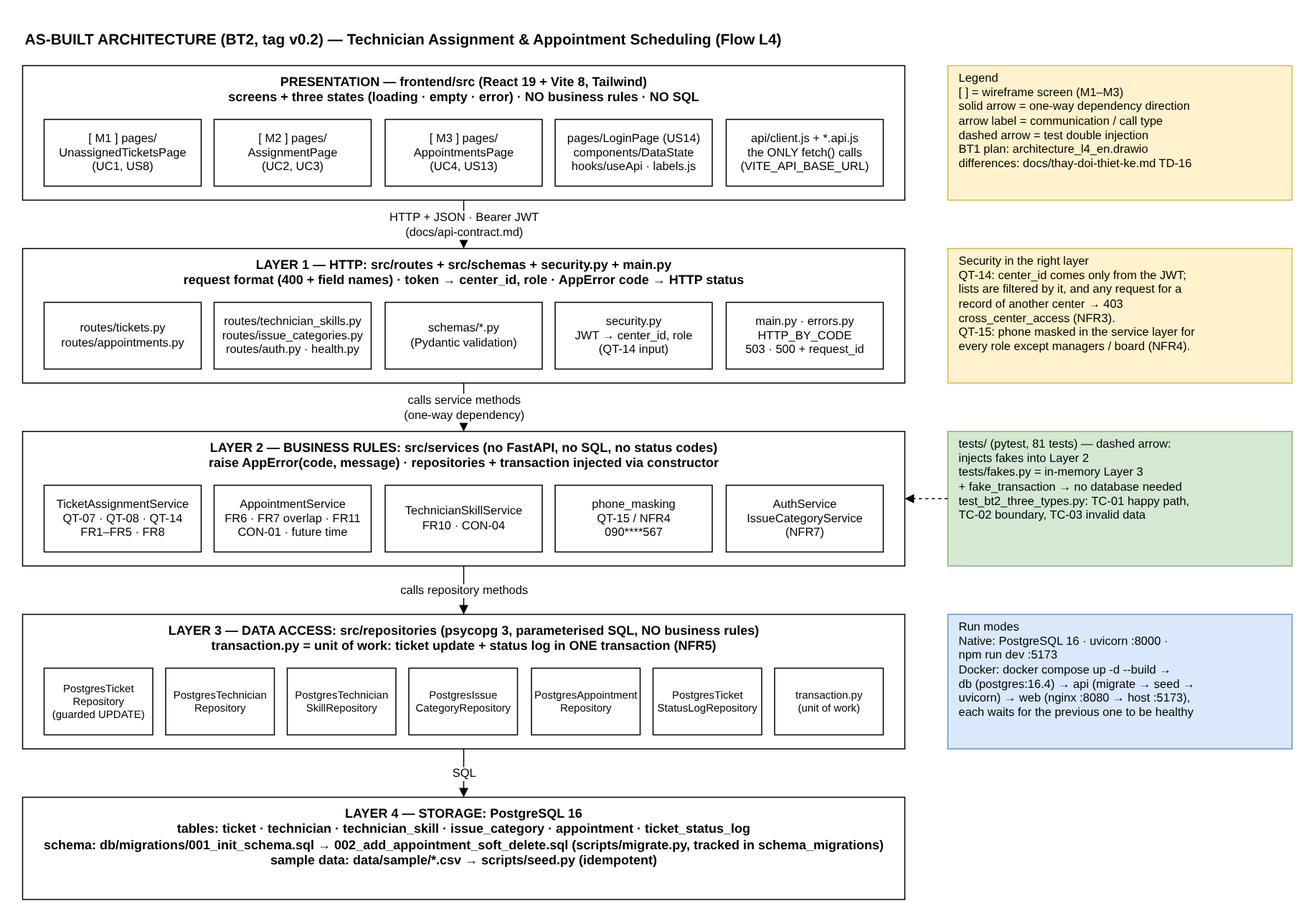
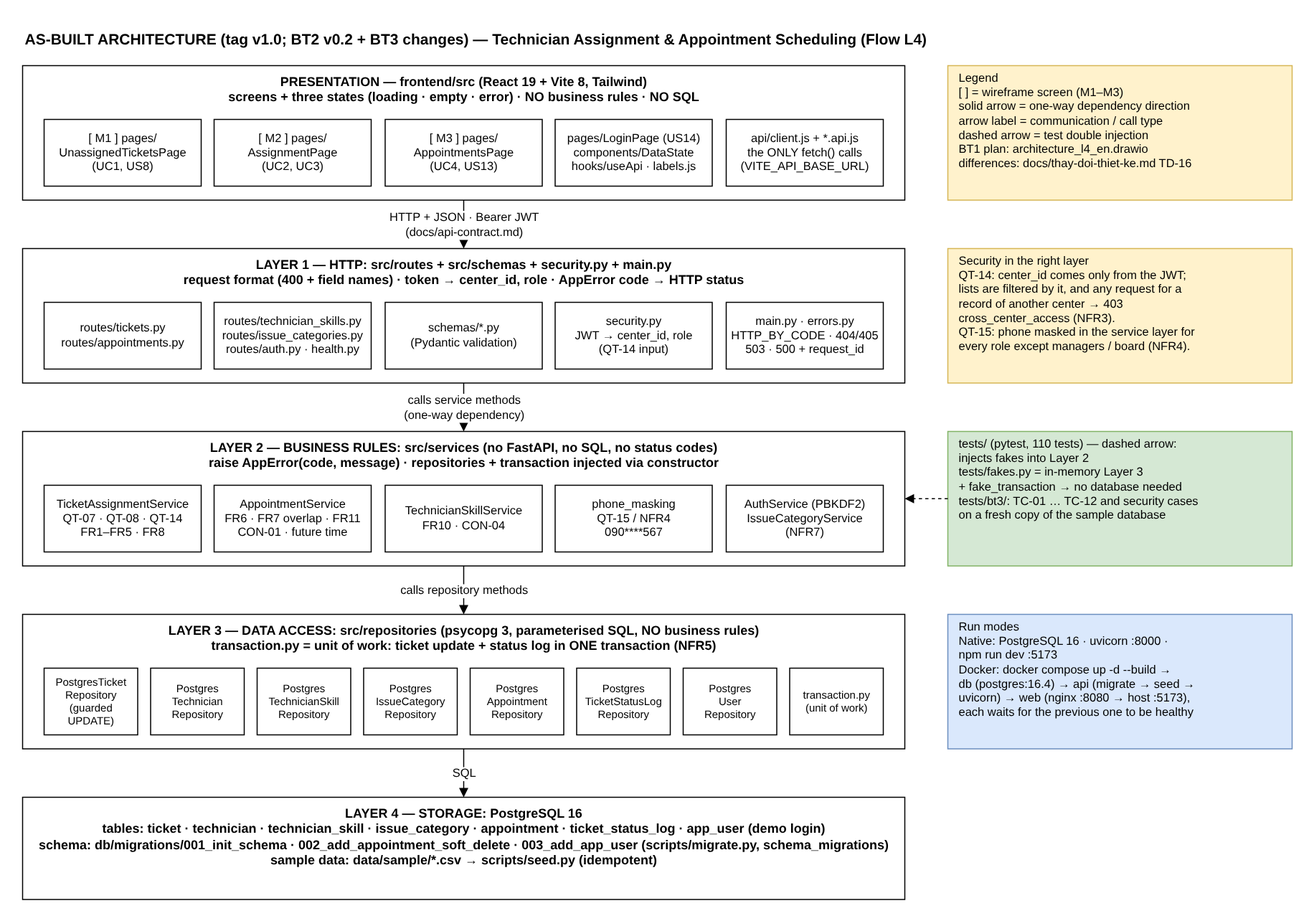
docs(bt3): BT2 feedback and TD-36 … TD-42; as-built architecture, SRS v0.8, README, Test Plan for v1.0
TD-36 records the BT2 feedback (nothing to fix, keep the standard). The as-built
architecture and its diagram show app_user, PostgresUserRepository and migration 003;
the SRS no longer says password storage is out of scope. README, Test Plan and the API
contract point to the BT3 documents and the new test counts (110); the AI disclosure
covers Session 15–16.

diff --git a/README.md b/README.md
@@ -1,6 +1,6 @@
 # Smart CRM – Mekong Mobile · Flow L4: Technician Assignment & Appointment Scheduling
 
-Repository `cdtn1-rasphonesamphanthamith-l4` · Track **SE** · Specialized Graduation Topic I (CĐTN1) · BT2 tag **`v0.2`**
+Repository `cdtn1-rasphonesamphanthamith-l4` · Track **SE** · Specialized Graduation Topic I (CĐTN1) · BT2 tag `v0.2` · BT3 tag **`v1.0`**
 
 ## 1. What it does
 
@@ -35,7 +35,7 @@ Run from the repository root, one command per step. Windows PowerShell: use `cop
 
 | # | Step | Command |
 |---|---|---|
-| 1 | Get the code | `git clone --branch v0.2 https://github.com/RASPHONE/cdtn1-rasphonesamphanthamith-l4.git` |
+| 1 | Get the code | `git clone --branch v1.0 https://github.com/RASPHONE/cdtn1-rasphonesamphanthamith-l4.git` |
 | 2 | Enter the folder | `cd cdtn1-rasphonesamphanthamith-l4` |
 | 3 | Create `.env` | `cp .env.example .env` — then set `DB_USER` / `DB_PASSWORD` to your local PostgreSQL account |
 | 4 | Create the empty database | `psql -h localhost -U postgres -c "CREATE DATABASE mekong_l4"` — use the `DB_USER` and `DB_NAME` from your `.env` (the account needs the right to create databases; `postgres` has it) |
@@ -68,6 +68,8 @@ Frontend, in a **second terminal** (the API must be running):
 | `manager2` | `manager123` | 2 |
 
 Demo-only accounts for QT-14 scoping (TD-07); they are not production authentication.
+`scripts/seed.py` stores them in table `app_user` with PBKDF2 password hashes; the password is
+`DEMO_PASSWORD` from `.env` (default `manager123`) at the time the accounts are created (TD-37).
 The session token is kept in the browser's `localStorage` — readable by an injected
 script if the page had an XSS bug; accepted for the prototype (an HttpOnly cookie is the production choice).
 
@@ -80,8 +82,10 @@ docker compose up -d --build
 
 `docker compose ps` should show `db`, `api` and `web` as **healthy**. The API container
 builds the schema and loads the sample data automatically.
-UI: http://localhost:5173 · API: http://localhost:8000/health · PostgreSQL on host port 5433.
+UI: http://localhost:5173 · API: http://localhost:8000/health · PostgreSQL on 127.0.0.1:5433.
+Whole test suite inside the running system: `docker compose exec api pytest -q` → `110 passed`.
 Start over from an empty database: `docker compose down -v` then the second command again.
+Requirements, variables, sample data, checks and troubleshooting: **`docs/deployment-guide.md`**.
 
 ## 5. Tests
 
@@ -89,24 +93,27 @@ Start over from an empty database: `docker compose down -v` then the second comm
 pytest -q
 ```
 
-Expected: `98 passed`. 90 of them use in-memory fakes (`tests/fakes.py`) and need **no database and
-no `.env`**. The 8 BT3 database cases (`tests/bt3/`) need a reachable PostgreSQL 16 with the DB_*
-values from `.env`; they create and drop their own `<DB_NAME>_test` databases and never touch the
-application data. Without PostgreSQL they are reported as skipped (`90 passed, 8 skipped`).
-With the Docker database (section 4) run `DB_PORT=5433 pytest -q`.
+Expected: `110 passed`. 98 of them use in-memory fakes (`tests/fakes.py`) and need **no database and
+no `.env`**. The 12 database tests in `tests/bt3/` (8 Test Report cases, password storage, injection)
+need a reachable PostgreSQL 16 with the DB_* values from `.env`; they create and drop their own
+`<DB_NAME>_test` databases and never touch the application data. Without PostgreSQL they are
+reported as skipped (`98 passed, 12 skipped`). With the Docker database (section 4) run
+`DB_PORT=5433 pytest -q`, or run everything in the container: `docker compose exec api pytest -q`.
 
 - One Test Report case with its actual-result line: `pytest -s -v tests/bt3 -k tc05`
   (plan: `docs/test-plan.md`, results: `docs/test-report.md`).
 - The three BT2 test types in one file: `pytest -v tests/test_bt2_three_types.py`.
 - Frontend checks: `npm run lint` and `npm run build` in `frontend/`.
 - CI (`.github/workflows/ci.yml`) runs all of the above on every push, with a PostgreSQL service.
+- Security checklist, re-run against the Docker system: `bash scripts/security-checks.sh`
+  (results: `docs/checklist-bao-mat.md`).
 
 ## 6. Check that it works
 
 | Check | Command / action | Expected |
 |---|---|---|
 | API and database up | `curl http://localhost:8000/health` | `{"status":"ok","database":"up"}` |
-| Re-run is safe (no duplicates) | `python scripts/migrate.py` then `python scripts/seed.py` again | `0 applied, 2 already up to date` · every table `+0` |
+| Re-run is safe (no duplicates) | `python scripts/migrate.py` then `python scripts/seed.py` again | `0 applied, 3 already up to date` · every table `+0` |
 | Main flow | Log in as `manager2` → M1 → **Phân công** → choose a technician → **Xác nhận phân công** → **Đặt lịch hẹn → M3** → pick a future date/time → **Lưu & xác nhận** | Ticket leaves M1; appointment appears in M3 as "Đã xác nhận" |
 | Double booking blocked | In M3, enter an overlapping time for the same technician | Yellow "Trùng lịch" banner, save disabled; the API returns 409 with the conflicting appointment |
 | Filter with no result | M1: Nhóm sự cố "Nước vào" + Ưu tiên "Thấp" → **Áp dụng bộ lọc** | "Không có phiếu nào khớp bộ lọc hiện tại." + **Xoá bộ lọc** |
@@ -114,7 +121,7 @@ With the Docker database (section 4) run `DB_PORT=5433 pytest -q`.
 | Backend stopped | Stop uvicorn, reload the UI | Error panel "Không kết nối được tới máy chủ…" with **Thử lại** |
 | Database stopped | Stop PostgreSQL, reload a screen | `503 database_unavailable`, UI shows "Cơ sở dữ liệu tạm thời không khả dụng…" |
 
-API reference and error codes: `docs/api-contract.md`.
+API reference with real examples: `docs/api-docs/README.md` (also `/docs` on the running API); design contract: `docs/api-contract.md`.
 
 ## 7. Sample data (reproducible)
 
@@ -138,14 +145,16 @@ src/                     backend, three layers
   services/                layer 2: business rules (QT-07, QT-08, QT-14, QT-15, FR7) — no HTTP, no SQL
   repositories/            layer 3: SQL (psycopg 3) + transaction.py (unit of work)
   main.py · errors.py · security.py · config.py · db.py
-db/migrations/           001_init_schema.sql, 002_add_appointment_soft_delete.sql
+db/migrations/           001_init_schema.sql, 002_add_appointment_soft_delete.sql, 003_add_app_user.sql
 scripts/                 migrate.py · seed.py · build_sample.py · docker-entrypoint.sh
+                         build_api_docs.py (docs/api-docs) · security-checks.sh + security_probe.py
 data/sample/             committed sample CSVs
 tools/                   course dataset generators (gen_dataset.py, gen_sample.py)
-tests/                   pytest: fakes.py + service and API tests · bt3/ = Test Report cases TC-01 … TC-12
+tests/                   pytest: fakes.py + service and API tests · bt3/ = Test Report cases TC-01 … TC-12 + database security tests
 frontend/src/            api/ (only fetch calls) · pages/ (M1, M2, M3, Login) · components/ · hooks/ · labels.js
 docs/                    srs.md · api-contract.md · architecture-thuc-te.md (as built) · thay-doi-thiet-ke.md
                          ai-disclosure.md · bug-log.md · test-plan.md · test-report.md · screenshots/
+                         api-docs/ (API reference + openapi.json) · deployment-guide.md · checklist-bao-mat.md
                          BT1 diagrams (.drawio) and exports/
 Dockerfile · frontend/Dockerfile · docker-compose.yml · .github/workflows/ci.yml
 ```
@@ -160,8 +169,8 @@ on purpose (BT1 feedback). The UI text is Vietnamese.
 
 - [x] BT1 — analysis & design (PDF submitted; design files in `docs/`)
 - [x] BT2 — core module, tests, M1–M3 screens, Docker (tag `v0.2`)
-- [ ] BT3 — test plan/report and packaging (tag `v1.0`) — in progress: Test Plan, Test Report
-  cases TC-01 … TC-12, BUG-011 … BUG-013 fixed, CI (Session 14); packaging and guides next (Session 15)
+- [x] BT3 — Test Plan, Test Report (TC-01 … TC-12), Bug Log (BUG-011 … BUG-016), Deployment Guide,
+  security checklist, API reference, Docker clean-machine package (tag `v1.0`)
 
-Design changes since BT1 (what · why · impact): `docs/thay-doi-thiet-ke.md` (TD-01 … TD-35) ·
+Design changes since BT1 (what · why · impact): `docs/thay-doi-thiet-ke.md` (TD-01 … TD-42) ·
 bugs found and fixed: `docs/bug-log.md` · AI usage: `docs/ai-disclosure.md`.

diff --git a/docs/thay-doi-thiet-ke.md b/docs/thay-doi-thiet-ke.md
@@ -179,9 +179,8 @@ three-line format: **Change** (what) · **Reason** (why) · **Impact** (which co
 
 ## BT3 — testing (Session 13–14)
 
-*BT2 feedback: not received yet (05/11/2026). When it arrives, each point gets an entry in
-the Session 8 template (Feedback · Decision · Reason · Impact), and any failure the lecturer
-hit while running the repository is also logged as a bug in `docs/bug-log.md`.*
+*BT2 feedback had not been received when this section was written (05/11/2026); it is
+recorded in TD-36 below.*
 
 ### TD-31 SRS §3.1 "Source" column given one meaning
 - **Change:** The Source column now always names where a requirement comes from. FR6–FR9 (previously "—") cite the case study: FR6 and FR7 the L4 flow scope ("đặt lịch hẹn giao – nhận máy", "kiểm tra trùng lịch"), FR8 problem V3, the L4 scope and the Center Manager interview #1–#2, FR9 is marked *derived* from QT-08, QT-04 and interview #3. FR10–FR12 (added in BT2) cited "BT2 S1" / "BT2 Component 3"; those are course constraints, not business sources, so they are listed in SRS §5 as CC-01 / CC-02 and the FRs cite those IDs. FR6 ("create or update an appointment") is kept as one requirement: both operations act on the same record with the same validation and conflict rule (US5, US6 AC3), unlike two separate capabilities in one sentence.
@@ -207,3 +206,41 @@ hit while running the repository is also logged as a bug in `docs/bug-log.md`.*
 - **Change:** Added `tests/bt3/` (Test Report cases TC-01 … TC-12). The database cases build `<DB_NAME>_test_tpl` once with the real migrate/seed scripts and recreate `<DB_NAME>_test` from it before every case; they are skipped (or fail with `REQUIRE_DB=1`) when PostgreSQL is unreachable. `.github/workflows/ci.yml` runs `pytest -q` with a PostgreSQL 16 service and the frontend lint/build on every push.
 - **Reason:** BT3 TP2 asks for cases run against the real system with side effects measured, and each case must start from known data; BT2 promised tests without a database, which still holds for the 90 tests that need no database.
 - **Impact:** `tests/bt3/`, `.github/workflows/ci.yml`, README §5, `docs/test-plan.md`, `docs/test-report.md`. The application database is never touched by the tests.
+
+## BT3 — packaging, security and documentation (Session 15–16)
+
+### TD-36 BT2 feedback (recorded 12/11/2026)
+- **Feedback:** *"Điểm mạnh: FastAPI + PostgreSQL + React: phân công KTV và lịch hẹn với nhiều quy tắc có kiểm thử, 81 kiểm thử PASS, ba màn hình M1–M3 đủ ba trạng thái, khoá phiên bản đầy đủ, .env.example cho cả backend và frontend, Docker hai lệnh, 30 mục thay đổi thiết kế và 10 bug log. Cần khắc phục: Không có lỗi đáng kể. Giữ phong độ cho BT3. Mục kiểm chứng (bảng 4.2): đạt đủ các mục chung và mục theo track."* — strengths: rule-heavy assignment and scheduling with tests, 81 tests passing, M1–M3 with the three states, full version pinning, `.env.example` for backend and frontend, two-command Docker, 30 design-change entries and 10 bugs logged; nothing significant to fix; every common and track item of table 4.2 met.
+- **Decision:** KEEP — no correction requested. The practices the feedback names are continued in BT3: every change is logged here (TD-31 … TD-42) and every bug in `docs/bug-log.md` (BUG-011 … BUG-016), versions stay pinned (TD-38), and the two-command Docker start is kept and is now also the way the full test suite runs (TD-41).
+- **Reason:** "Giữ phong độ" asks for the same standard on the new BT3 components; the lecturer hit no failure while running the repository, so no bug comes from the feedback itself.
+- **Impact:** none on code; this entry replaces the "not received yet" note of the BT3 section. The test count named in the feedback (81) is the BT2 state; BT3 brings it to 110 (README §5).
+
+### TD-37 Demo accounts stored in `app_user` with hashed passwords (BUG-014)
+- **Change:** New table `app_user` (migration `003_add_app_user.sql`, also in `docs/ddl_l4.sql`) with a `CHECK` that accepts only `pbkdf2_sha256$…` values; `seed.py` creates `manager1` / `manager2` from `DEMO_PASSWORD` (default `manager123`) hashed with PBKDF2-SHA256, 600,000 iterations; `AuthService` reads accounts through the new `PostgresUserRepository` instead of the `DEMO_USERS` constant.
+- **Reason:** BUG-014 / BT3 S3: passwords in the database must be hashes; the BT2 demo kept them in clear in the code (TD-07 had said "not production authentication").
+- **Impact:** `db/migrations/`, `docs/ddl_l4.sql`, `scripts/seed.py`, `src/repositories/user_repository.py`, `src/services/password_hashing.py`, `auth_service.py`, `routes/auth.py`, `.env.example`, `docker-compose.yml`, tests (`FakeUserRepository`, 6 new tests), `docs/architecture-thuc-te.md` §5 and diagram, SRS v0.8 (§1.3 item 5, matrix FR12). Login behaviour and the documented demo credentials are unchanged; the BT1 ERD is unchanged (authentication table outside the L4 business model).
+
+### TD-38 Dependencies upgraded after `pip-audit` and `npm audit`
+- **Change:** `fastapi` 0.115.5 → 0.162.0 with `starlette` pinned at 1.10.0, `PyJWT` 2.9.0 → 2.15.1, `pytest` 8.3.4 → 9.1.1; frontend: npm override pins `minimatch` 11.0.8 under ESLint 10.
+- **Reason:** security checklist item 7: `pip-audit` reported 25 advisories, `npm audit` 4 moderate (development only). After the change both report 0.
+- **Impact:** `requirements.txt`, `pytest.ini` (one deprecation warning from `starlette.testclient` filtered), `frontend/package.json` and lock file; Starlette 1.x lists routers differently, so endpoint enumeration uses `app.openapi()`. All tests pass on Python 3.11–3.14; lint and build unchanged.
+
+### TD-39 Every error response follows the contract envelope (BUG-015, BUG-016)
+- **Change:** Framework 404/405 answer `{"error": "not_found" | "method_not_allowed", "message"}`; unexpected errors are turned into the 500 envelope inside the request-log middleware, so they carry `X-Request-ID` and a request log line; the served OpenAPI (`/openapi.json`, `/docs`) documents 400 with the error envelope instead of FastAPI's default 422.
+- **Reason:** security checklist item 5 / BT3 S4 and API contract §1; S1 (the machine-readable docs must match the real responses).
+- **Impact:** `src/main.py`, API contract §1, 3 new tests.
+
+### TD-40 Tokens must carry every claim the API reads
+- **Change:** `jwt.decode` requires `exp`, `sub`, `user_id`, `role` and `center_id`; a token without an expiry or without the center is refused (401).
+- **Reason:** Session 15 JWT checklist ("always verify the expiry"); a token without `exp` would never expire and one without `center_id` would bypass QT-14 scoping by failing later with a 500.
+- **Impact:** `src/security.py`, `tests/test_config.py`, test tokens in `tests/test_api.py`.
+
+### TD-41 Docker package for the clean-machine test
+- **Change:** The api image contains `tests/`, `pytest.ini` and `.env.example`, so `docker compose exec api pytest -q` runs the whole suite where the system runs; `/app` belongs to the unprivileged `app` user; PostgreSQL is published on `127.0.0.1` only; `DEMO_PASSWORD` is passed to the api service; `seed.py` binds `APP_TIMEZONE` as a parameter.
+- **Reason:** BT3 C1/C3 (tests pass with one command from the Deployment Guide on a clean machine) and checklist items 1–2 (database not exposed on the network, no configurable value formatted into SQL).
+- **Impact:** `Dockerfile`, `.dockerignore`, `docker-compose.yml`, `scripts/seed.py`, `docs/deployment-guide.md`, README §4–§5.
+
+### TD-42 BT3 documentation set
+- **Change:** `docs/api-docs/` (README with the 7 items for each of the 19 endpoints and real examples, plus `openapi.json`) generated by `scripts/build_api_docs.py`, which stops if the documented endpoints, statuses or examples differ from the code; `docs/deployment-guide.md` (English, 5 required sections + troubleshooting, HTTPS and monitoring); `docs/checklist-bao-mat.md` with `scripts/security-checks.sh`, which re-runs the 7 checks against the Docker system.
+- **Reason:** BT3 TP5, TP6 (S1) and C9 — the documents must describe the system as it is, so they are generated from or checked against the running code.
+- **Impact:** `docs/`, `scripts/`; `docs/api-contract.md` stays the design contract (BT1/BT2) and points to `docs/api-docs/` for the reference.

diff --git a/docs/srs.md b/docs/srs.md
@@ -2,8 +2,8 @@
 
 - **Flow:** L4 — Technician Assignment and Appointment Scheduling
 - **Track:** SE
-- **Version:** v0.7
-- **BT2 target tag:** v0.2
+- **Version:** v0.8
+- **Tags:** BT2 `v0.2` · BT3 `v1.0`
 - **Language:** English
 - **Source case study:** Smart CRM – Mekong Mobile
 
@@ -32,7 +32,7 @@ The following capabilities are explicitly excluded from v0.2:
 2. **Notification infrastructure.** No SMS, email, or push notification is sent by the system in v0.2.
 3. **Technician self-service UI.** The Technician actor is specified but deferred to v1.1.
 4. **Reporting and analytics.** Dashboards belong to flows L6/L10, not L4.
-5. **Production authentication.** User accounts, password storage and an identity provider are out of scope. A minimal demo login (US14/FR12) exists only so the server can identify the caller's center and role.
+5. **Production authentication.** Account management, password change or reset, and an identity provider are out of scope. A minimal demo login (US14/FR12) exists only so the server can identify the caller's center and role; its two demo accounts are stored in table `app_user` with hashed passwords (BT3 S3, TD-37).
 6. **On-site check appointment workflow.** The appointment type `KIEM_TRA_TAI_CHO` is retained in the database enum for historical/generated data compatibility, but v0.2 only allows creating `GIAO_MAY` and `NHAN_MAY` appointments.
 7. **Structured appointment location and appointment note.** No `location` or `note` field is stored for appointments in v0.2. Handover/receipt appointments are associated with the ticket's service center. On-site address handling and appointment notes are deferred.
 
@@ -307,9 +307,9 @@ Screen identifiers: **M1** = Unassigned warranty ticket list · **M2** = Ticket 
 | FR9 | Filter unassigned tickets | US8 | UC1 | SHOULD | ticket, issue_category | M1 | BT3 |
 | FR10 | Maintain technician skill records | US12 | UC2 | SHOULD | technician_skill, technician, issue_category | — (API only, TD-06; proficiency shown on M2) | BT3 |
 | FR11 | Read and soft-delete appointments | US13 | UC4 | SHOULD | appointment | M3 | BT3 |
-| FR12 | Minimal demo authentication for center scoping | US14 | UC1-UC4 (precondition) | MUST | (infrastructure) | Login screen | BT3 |
+| FR12 | Minimal demo authentication for center scoping | US14 | UC1-UC4 (precondition) | MUST | app_user (demo accounts) | Login screen | BT3 |
 
-**Row read:** every FR (none is WON'T) has a User Story, Use Case and data table; every FR has a screen except FR10, which is API-only by design (TD-06). FR12's data is infrastructure (token), not a table.
+**Row read:** every FR (none is WON'T) has a User Story, Use Case and data table; every FR has a screen except FR10, which is API-only by design (TD-06). FR12's data is the demo-account table `app_user` (added in BT3, TD-37).
 
 **Column read (data table):** `ticket` (FR1, FR3, FR5, FR6, FR8, FR9), `technician` (FR2, FR8, FR10), `technician_skill` (FR2, FR4, FR10), `issue_category` (FR2, FR9, FR10), `appointment` (FR6, FR7, FR11), `ticket_status_log` (FR5). All six ERD tables appear at least once — no isolated table.
 
@@ -329,3 +329,4 @@ Screen identifiers: **M1** = Unassigned warranty ticket list · **M2** = Ticket 
 | v0.5 | BT2 implementation (Session 11) | Added US14/FR12 acceptance criteria for minimal demo authentication; clarified `technician_skill` CRUD as a BT2 API-only scope adjustment supporting the ≥2 full-CRUD requirement; aligned appointment behavior with the API contract: creation/confirmation uses `DA_XAC_NHAN`, PATCH is limited to `DA_XAC_NHAN`, completed appointments cannot be soft-deleted (`appointment_completed_cannot_delete`), and reassignment reason must be 5–255 characters; recorded implementation alignment for NFR5 atomic assignment transactions, qualified-technician response shape `{ "ticket_id", "items": [...] }`, and assignment response `log_id`. | BT2 implementation alignment TD-09 to TD-14 |
 | v0.6 | BT2 finalisation (Session 12) | §1.5 rewritten for the actual committed sample; design notes 8–10 (customer snapshot fixture, concurrent assignment guard, business clock); NFR4/QT-15 masking now implemented in the service layer; supporting read endpoints `GET /api/tickets/{ticket_id}` (US2/US4 summary) and `GET /api/issue-categories` (US8 filter) added to the API contract. Consistency pass: US1 AC3 and NFR3 wording (lists are scoped, direct access returns 403), QT-04 working-day clause restored, matrix FR10 screen and column reads, §1.3 item 5, note on message language. | TD-15 to TD-30 |
 | v0.7 | BT3 (Session 13–14) | §3.1 Source column given one meaning (origin of the requirement) and filled for FR6–FR9 from the case study; FR10–FR12 now cite course constraints CC-01/CC-02, added to §5. | TD-31 |
+| v0.8 | BT3 (Session 15–16) | §1.3 item 5: the demo accounts are stored in `app_user` with hashed passwords; matrix FR12 data table `app_user`. | TD-37 (BUG-014) |

diff --git a/docs/ai-disclosure.md b/docs/ai-disclosure.md
@@ -4,12 +4,13 @@ Policy reminder (course AI-use and academic-integrity rules): AI may be used to 
 suggest functions, find causes of errors and review code; every line submitted must be read
 and understood by the student, who can explain any function on request (Session 12).
 
-## BT3 — Testing (Session 13–14; tag `v1.0` later)
+## BT3 — Testing, packaging and documentation (Session 13–16; tag `v1.0`)
 
 | Tool | Used for | Applied in which file / function | How it was verified |
 | :--- | :--- | :--- | :--- |
 | Claude (Anthropic) | Checking the SRS §3.1 Source column against the case study and course material (TD-31); exploratory testing of the API (tokens, malformed input, cross-center access, boundary values) that found BUG-011 … BUG-013; writing the Test Plan, the Test Report cases and their test-database fixture; the three bug fixes (one commit each); the CI workflow; drafts of the Test Report table, Bug Log entries, TD-31 … TD-35, README §5 and this table. A second, separate Claude session reviewed the proposed SRS sources (FR10–FR12 as course constraints, extra sources for FR8 and FR9, the one-requirement check for FR6) | `docs/srs.md` §3.1, §5; `docs/test-plan.md`, `docs/test-report.md`, `docs/bug-log.md` (BUG-011 … 013); `tests/bt3/conftest.py`, `tests/bt3/test_bt3_cases.py`, `tests/test_config.py`; `src/config.py` (`_jwt_secret_must_be_private`), `ticket_assignment_service.reassign_technician`, `src/main.py` (`validation_error_handler`), `src/errors.py`; `.env.example`, `docker-compose.yml`; `.github/workflows/ci.yml` | Each bug reproduced on the commit before its fix (`cf58fa7`: TC-08, TC-09, TC-11 fail) and re-run after it; `pytest -q` 98 passed with PostgreSQL 16, 90 passed / 8 skipped without; the BUG-011 fix also checked by starting the API from a plain copy of `.env.example` (forged tokens 401, real login 200, published value refused at start-up). The Test Report's actual results and screenshots come from the student's own runs (run 1 on `cf58fa7`, run 2 on `8990458`, 05/11/2026). The SRS review suggestions were each checked against `03_requirements/23_srs_and_traceability.md` §5 and the case study before being applied. |
-| — none — | Accepting the test scope and each bug's severity, running every Test Report case and recording its result, Git workflow (push, merge, tag) | `docs/test-report.md` actual-result columns; `docs/screenshots/` | Not applicable |
+| Claude (Anthropic) | Session 15–16: running the security checklist against the API (found BUG-014 … BUG-016) and the fixes; `pip-audit` / `npm audit` and the dependency upgrades; token-claim check; Docker changes for the clean-machine test; the API-reference generator with its consistency checks; the security-check scripts; drafts of the Deployment Guide, the security checklist, BUG-014 … 016, TD-36 … TD-42, the as-built architecture update, README and this row | `src/services/password_hashing.py`, `auth_service.py`, `src/repositories/user_repository.py`, `db/migrations/003_add_app_user.sql`, `scripts/seed.py`; `src/main.py` (`framework_http_error_handler`, `request_log`, `_describe_errors_in_openapi`), `src/security.py`; `requirements.txt`, `frontend/package.json`; `Dockerfile`, `docker-compose.yml`; `scripts/build_api_docs.py`, `scripts/security-checks.sh`, `scripts/security_probe.py`; `tests/test_password_storage.py`, `tests/bt3/test_password_storage_db.py`, `tests/bt3/test_injection_db.py`, new tests in `tests/test_api.py`, `tests/test_config.py`; `docs/api-docs/`, `docs/deployment-guide.md`, `docs/checklist-bao-mat.md`, `docs/bug-log.md`, `docs/thay-doi-thiet-ke.md`, `docs/architecture-thuc-te.*`, `docs/srs.md` v0.8 | Each new test was run on the commit before its fix and failed, then passed after it; `pytest -q` 110 passed with PostgreSQL 16 on Python 3.11–3.14, 98 passed / 12 skipped without; `pip-audit` and `npm audit` 0 after the upgrades, frontend lint still reports errors and build passes; the API reference is generated from real calls and refuses to write when it differs from the code; `openapi.json` validated with `openapi-spec-validator`. The Docker clean-machine test, the security checks in Docker and their screenshots are the student's own runs (`docs/screenshots/`). |
+| — none — | Accepting the test scope and each bug's severity, running every Test Report case and recording its result, running the clean-machine test and the security checks, Git workflow (push, merge, tag `v1.0`) | `docs/test-report.md` actual-result columns; `docs/checklist-bao-mat.md` statuses; `docs/screenshots/` | Not applicable |
 
 ## BT2 — Core module implementation (tag `v0.2`)
 

diff --git a/docs/architecture-thuc-te.md b/docs/architecture-thuc-te.md
@@ -1,6 +1,7 @@
-# `docs/architecture-thuc-te.md` — Architecture as built (L4, BT2, tag v0.2)
+# `docs/architecture-thuc-te.md` — Architecture as built (L4, tag v1.0)
 
-This is the architecture that is **actually implemented** at tag `v0.2`.
+This is the architecture that is **actually implemented**: written for BT2 (tag `v0.2`),
+updated for BT3 (tag `v1.0`, §5).
 The BT1 design (planned) is `docs/architecture_l4_en.md`; every difference is recorded
 in `docs/thay-doi-thiet-ke.md` (TD-16 summarises the structural ones).
 
@@ -17,7 +18,7 @@ Diagram source: `docs/architecture-thuc-te.drawio` (open in draw.io; PNG export 
 | 1 · HTTP | `src/routes/*.py`, `src/schemas/*.py`, `src/security.py`, `src/main.py` | Parse/validate the request format (Pydantic → 400 with field names), read `center_id`/`role` from the JWT, wire services to repositories, translate `AppError.code` → HTTP status (`src/errors.py: HTTP_BY_CODE`), 503 on database outage | Contain business rules or SQL |
 | 2 · Business rules | `src/services/*.py` | QT-07, QT-08, QT-14 center checks, QT-15 masking, FR7 overlap, CON-01, appointment lifecycle limits; raise `AppError(code, message)` | Import anything from FastAPI/HTTP or the database driver; know status codes |
 | 3 · Data access | `src/repositories/*.py`, `src/db.py` | Parameterised SQL with psycopg 3; `transaction.py` groups writes in one transaction | Decide anything (no business `if`) |
-| Data store | PostgreSQL 16 · `db/migrations/001_init_schema.sql`, `002_add_appointment_soft_delete.sql` · seed `data/sample/` | PK/FK/CHECK (CON-01…06), partial indexes for NFR1/NFR2/FR7 | — |
+| Data store | PostgreSQL 16 · `db/migrations/001_init_schema.sql`, `002_add_appointment_soft_delete.sql`, `003_add_app_user.sql` · seed `data/sample/` | PK/FK/CHECK (CON-01…06), partial indexes for NFR1/NFR2/FR7 | — |
 
 Dependencies point one way only: `routes → services → repositories → db`.
 Services receive their repositories (and the transaction factory) through the
@@ -57,3 +58,17 @@ grep -rn  "fetch(" frontend/src/pages frontend/src/components                 # 
 | Docker (`docker compose up -d --build`) | `db` (postgres:16.4-alpine, healthcheck) → `api` (Dockerfile, runs migrate → seed → uvicorn, healthcheck `/health`) → `web` (frontend/Dockerfile, nginx on :8080 published as :5173) |
 
 Configuration comes only from environment variables (`.env.example`, `frontend/.env.example`).
+
+## 5. BT3 additions (tag v1.0)
+
+| Where | What changed | Why |
+|---|---|---|
+| Layer 3 + data store | Table `app_user` (migration 003; `CHECK` accepts only `pbkdf2_sha256$…`), `src/repositories/user_repository.py` | Demo accounts with hashed passwords instead of a constant in code (BUG-014, TD-37) |
+| Layer 2 | `src/services/password_hashing.py` (PBKDF2-SHA256, 600,000 iterations); `AuthService` receives the user repository like every other service | S3; still no SQL or HTTP in services (quick checks above still return nothing) |
+| Layer 1 | `src/security.py` requires `exp`, `sub`, `user_id`, `role`, `center_id` in tokens; `src/main.py` answers framework 404/405 and unexpected 500s with the error envelope and `X-Request-ID`; the served OpenAPI documents 400 for invalid input | TD-39, TD-40, BUG-015, BUG-016 |
+| Packaging | The api image contains `tests/` (`docker compose exec api pytest -q`); PostgreSQL is published on 127.0.0.1 only | TD-41 |
+
+The diagram above shows these changes (`PostgresUserRepository`, `app_user`, migration 003,
+404/405 handling). `app_user` supports the demo login only and is not part of the L4 business
+model, so the BT1 ERD (`erd_l4_en.drawio`) is unchanged; its DDL is in
+`db/migrations/003_add_app_user.sql` and in `docs/ddl_l4.sql`.

diff --git a/docs/test-plan.md b/docs/test-plan.md
@@ -1,7 +1,8 @@
 # `docs/test-plan.md` — Test Plan (L4, track SE, BT3)
 
 Flow **L4 — Technician Assignment & Appointment Scheduling** · system as tagged `v0.2`
-plus BT3 changes · written in Session 14 (05/11/2026). Results: `docs/test-report.md` ·
+plus BT3 changes · written in Session 14 (05/11/2026), test counts and environment updated
+for tag `v1.0` (Session 15–16). Results: `docs/test-report.md` ·
 bugs: `docs/bug-log.md` · cases in code: `tests/bt3/test_bt3_cases.py`.
 
 ## 1. Scope
@@ -42,8 +43,10 @@ grading steps exercise (rejecting bad input, re-running the data load):
 | API + PostgreSQL (integration) | Routes → services → SQL repositories on a fresh copy of the sample | TC-01 – TC-05, TC-09, TC-10 | 7 |
 | System | The real `migrate.py` / `seed.py` commands | TC-12 | 1 |
 
-The base of the pyramid is the **81 unit and API tests from BT2** (`tests/test_*.py`,
-in-memory fakes, no database). They run with the same command and act as regression tests.
+The base of the pyramid is the **81 unit and API tests from BT2** plus 13 regression tests
+added with the BT3 fixes (`tests/test_*.py`, 94 tests, in-memory fakes, no database), and 4
+database security tests (`tests/bt3/test_password_storage_db.py`, `test_injection_db.py`,
+security checklist items 2 and 4). Everything runs with the same command: **110 tests**.
 The report cases lean on the database because QT-14, FR7 and the assignment guard are
 enforced partly in SQL: only a real database shows that no extra row was written.
 
@@ -80,10 +83,10 @@ invalid data ×2 (TC-08, TC-09; status code **and** message checked) · security
 
 | Item | Value |
 |---|---|
-| Runtime | Python 3.11–3.14 virtual environment from `requirements.txt` (README §3) |
+| Runtime | Python 3.11–3.14 virtual environment from `requirements.txt` (README §3), or the api container of `docker compose` (Python 3.12.7, tests included in the image) |
 | Database | PostgreSQL 16: a local server with the DB_* values from `.env`, or the Docker one (`docker compose up -d db`, then `DB_PORT=5433` because Docker publishes it on host port 5433) |
 | Data | The committed sample `data/sample/` (fixed ids). Cases use ticket BH-008036/2026 (center 2, MOI, category 1), BH-000194/2025 (center 2, assigned to technician 30), technicians 5, 8, 25, 29, 30, and demo appointment 900004 (center 2) |
 | Set-up | Once per run, the tests create `<DB_NAME>_test_tpl` with the real `python scripts/migrate.py` and `python scripts/seed.py`. **Before every database case** they recreate `<DB_NAME>_test` as a copy of it, so no case depends on another or on leftover data. Both databases are dropped at the end; the application database is never touched |
 | Unit / API cases | In-memory fakes (`tests/fakes.py`); no database, no `.env` |
-| Commands | All cases: `pytest -q` · one case with its actual-result line: `pytest -s -v tests/bt3 -k tc05` |
+| Commands | All tests: `pytest -q`, or in Docker `docker compose exec api pytest -q` · one case with its actual-result line: `pytest -s -v tests/bt3 -k tc05` (Docker: `docker compose exec api pytest -s -v tests/bt3 -k tc05`) |
 | CI | `.github/workflows/ci.yml` runs the same command on a clean GitHub runner with a PostgreSQL 16 service, on every push |

diff --git a/docs/test-report.md b/docs/test-report.md
@@ -31,7 +31,7 @@ message quality · **Low** = convenience.
 | **TC-09** · invalid data · QT-07, FR5 · API + DB | Ticket BH-000194/2025 assigned to technician 30; logged in as `manager2` | 1. Count its status-log rows 2. `PATCH /api/tickets/194/assignment` 3. Count again | `{"technician_id": 30, "reason": "Khách yêu cầu giữ nguyên KTV"}` (the current technician) | 422 `same_technician`, message "The ticket is already assigned to this technician."; status-log rows unchanged | High | **Run 1:** **200**, no error; log rows 2 → 3 → **BUG-012** · [TC-09-run1](screenshots/TC-09-run1.png)<br>**Run 2:** 422 `same_technician`, "The ticket is already assigned to this technician."; log rows 2 → 2 · [TC-09](screenshots/TC-09.png) | **FAIL** → PASS |
 | **TC-10** · security (OWASP A01) · QT-14, NFR3 · API + DB | Appointment 900004 belongs to center 2, 09:00–10:00. Logged in as `manager1` (center 1) | 1. `PATCH /api/appointments/900004` 2. Read the row again | `{"gio_bat_dau": "10:00", "gio_ket_thuc": "11:00"}` with manager1's token | 403 `cross_center_access`; the row still 09:00–10:00 | High | 403 `cross_center_access`; row 09:00–10:00 before and after · [TC-10](screenshots/TC-10.png) | PASS |
 | **TC-11** · security (OWASP A07/A02) · QT-14, FR12 · API | API configured exactly as README/Docker: settings from `.env.example` | 1. Sign a `CENTER_MANAGER` token for center 1 with each secret published in the repository 2. `GET /api/tickets/unassigned` with it | secrets: the v0.2 `.env.example` value, the v0.2 `config.py` default, and the current `.env.example` value if any | Every forged token → 401 `unauthorized` | High | **Run 1:** v0.2 `.env.example` secret → **200**, v0.2 `config.py` default → 401, current `.env.example` value (the same sample) → **200** → **BUG-011** · [TC-11-run1](screenshots/TC-11-run1.png)<br>**Run 2:** both published secrets → 401; `.env.example` has no value any more · [TC-11](screenshots/TC-11.png) | **FAIL** → PASS |
-| **TC-12** · reproducibility · BT2 C5, BT3 C8 · system | Test DB already migrated and seeded once (`migrate.py` + `seed.py`) | 1. Count rows in the 6 tables 2. `python scripts/migrate.py` 3. `python scripts/seed.py` 4. Count again | the committed sample `data/sample/` | migrate: "0 applied, 2 already up to date"; seed: every table `+0`; counts unchanged (6 / 38 / 159 / 487 / 1390 / 80) | High | migrate "0 applied, 2 already up to date"; every table `+0`; totals 6 / 38 / 159 / 487 / 1390 / 80 · [TC-12](screenshots/TC-12.png) | PASS |
+| **TC-12** · reproducibility · BT2 C5, BT3 C8 · system | Test DB already migrated and seeded once (`migrate.py` + `seed.py`) | 1. Count rows in the 6 tables 2. `python scripts/migrate.py` 3. `python scripts/seed.py` 4. Count again | the committed sample `data/sample/` | migrate: "0 applied, *n* already up to date" (*n* = files in `db/migrations/`: 2 at run 2, 3 since BT3 migration 003); seed: every table `+0`; counts unchanged (6 / 38 / 159 / 487 / 1390 / 80) | High | migrate "0 applied, 2 already up to date"; every table `+0`; totals 6 / 38 / 159 / 487 / 1390 / 80 · [TC-12](screenshots/TC-12.png) | PASS |
 
 ## Summary
 

diff --git a/docs/api-contract.md b/docs/api-contract.md
@@ -1,8 +1,12 @@
 # `docs/api-contract.md` — API Contract (L4, Track SE, BT2 target tag v0.2)
 
 Updated for BT2. Every business endpoint traces to a User Story in SRS §6.2.
-Companion artifacts: `docs/srs.md` (v0.6), `docs/erd_l4_en.dbd`, `docs/ddl_l4.sql`,
+Companion artifacts: `docs/srs.md` (v0.8), `docs/erd_l4_en.dbd`, `docs/ddl_l4.sql`,
 `docs/wireframes_l4_en.drawio` (M1–M3).
+
+**BT3 (tag `v1.0`):** this file stays the design contract. The reference for the system as
+built — the 7 items of every endpoint with real requests and responses, checked against the
+code when generated — is `docs/api-docs/README.md` (machine-readable: `docs/api-docs/openapi.json`).
 
 ## 1. Common conventions
 
